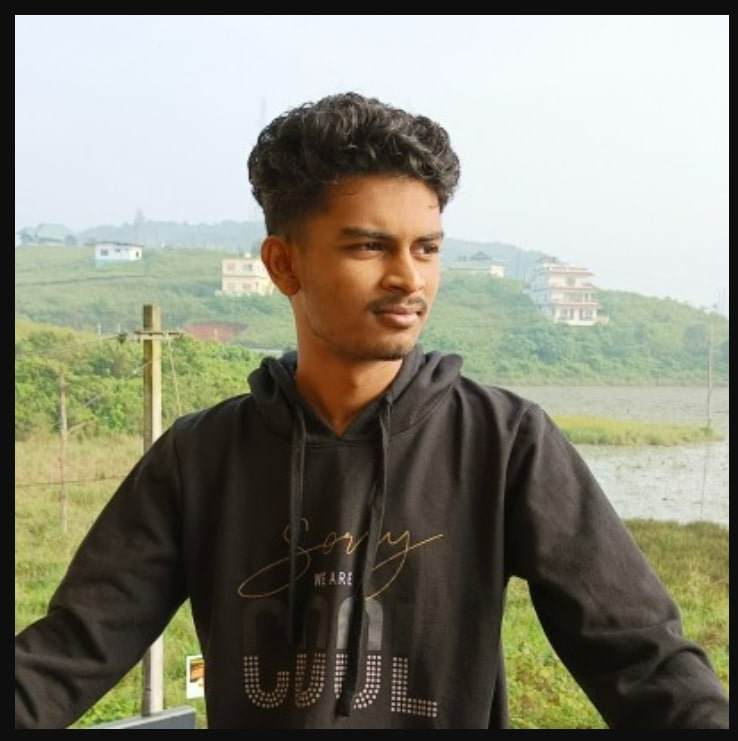
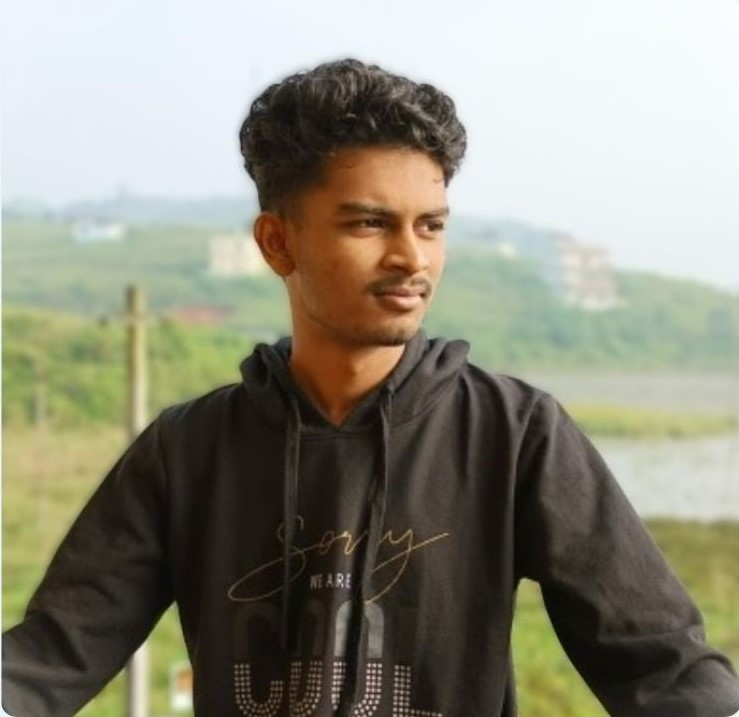
resume and project section added

diff --git a/index.html b/index.html
@@ -29,10 +29,7 @@
       rel="stylesheet"
     />
     <link href="assets/vendor/aos/aos.css" rel="stylesheet" />
-    <link
-      href="assets/vendor/glightbox/css/glightbox.min.css"
-      rel="stylesheet"
-    />
+
     <link href="assets/vendor/swiper/swiper-bundle.min.css" rel="stylesheet" />
 
     <!-- Main CSS File -->
@@ -54,6 +51,7 @@
               <a href="#hero" class="active">Home<br /></a>
             </li>
             <li><a href="#about">About</a></li>
+            <li><a href="#resume">Resume</a></li>
             <li><a href="#services">Projects</a></li>
             <li><a href="#contact">Contact</a></li>
           </ul>
@@ -93,6 +91,7 @@
                   <img
                     src="assets/img/profile-img.jpg"
                     class="img-fluid"
+                    style="background-color: #5780ae; box-shadow: #5780ae"
                     alt=""
                   />
                 </div>
@@ -201,10 +200,7 @@
         <!-- Section Title -->
         <div class="container section-title" data-aos="fade-up">
           <h2>Resume</h2>
-          <p>
-            Necessitatibus eius consequatur ex aliquid fuga eum quidem sint
-            consectetur velit
-          </p>
+          <p>Java Developer and Freelancer</p>
         </div>
         <!-- End Section Title -->
 
@@ -214,106 +210,94 @@
               <h3 class="resume-title">Sumary</h3>
 
               <div class="resume-item pb-0">
-                <h4>Brandon Johnson</h4>
+                <h4>Hariharan R</h4>
                 <p>
-                  <em
-                    >Innovative and deadline-driven Graphic Designer with 3+
-                    years of experience designing and developing user-centered
-                    digital/print marketing material from initial concept to
-                    final, polished deliverable.</em
-                  >
+                  <em>
+                    A final-year Computer Science and Engineering student with a
+                    strong foundation in Java development, Data Structures, and
+                    Algorithms, seeking a challenging role to enhance
+                    problem-solving skills and contribute to impactful software
+                    engineering projects.
+                  </em>
                 </p>
                 <ul>
-                  <li>Portland par 127,Orlando, FL</li>
-                  <li>(123) 456-7891</li>
-                  <li>alice.barkley@example.com</li>
+                  <li>+91 9342510436</li>
+                  <li>hariramesh1893@gmail.com</li>
+                  <li>Karaikal, Puducherry.</li>
                 </ul>
               </div>
               <!-- Edn Resume Item -->
 
               <h3 class="resume-title">Education</h3>
               <div class="resume-item">
-                <h4>Master of Fine Arts &amp; Graphic Design</h4>
-                <h5>2015 - 2016</h5>
-                <p><em>Rochester Institute of Technology, Rochester, NY</em></p>
-                <p>
-                  Qui deserunt veniam. Et sed aliquam labore tempore sed
-                  quisquam iusto autem sit. Ea vero voluptatum qui ut
-                  dignissimos deleniti nerada porti sand markend
-                </p>
+                <h4>Batchelor of Technology</h4>
+                <h5>Computer Science &amp; Engineering (Pursing)</h5>
+                <br />
+                <h5>2021 - 2025</h5>
+                <h5>CGPA: 8.66 (Upto 5th sem)<h5>
               </div>
               <!-- Edn Resume Item -->
 
               <div class="resume-item">
-                <h4>Bachelor of Fine Arts &amp; Graphic Design</h4>
-                <h5>2010 - 2014</h5>
-                <p><em>Rochester Institute of Technology, Rochester, NY</em></p>
-                <p>
-                  Quia nobis sequi est occaecati aut. Repudiandae et iusto quae
-                  reiciendis et quis Eius vel ratione eius unde vitae rerum
-                  voluptates asperiores voluptatem Earum molestiae consequatur
-                  neque etlon sader mart dila
-                </p>
+                <h4>Higher Secondary Certificate (HSC)</h4>
+                <h5>2021</h5>
+                <h5>85.48%</h5>
+                <br>
+                <br>
+                <h4>Secondary School Leaving Certificate (SSLC)</h4>
+                <h5>2019</h5>
+                <h5>79.9%</h5>
+                
               </div>
               <!-- Edn Resume Item -->
             </div>
 
             <div class="col-lg-6" data-aos="fade-up" data-aos-delay="200">
-              <h3 class="resume-title">Professional Experience</h3>
+              <h3 class="resume-title">Internship Experience</h3>
               <div class="resume-item">
-                <h4>Senior graphic design specialist</h4>
-                <h5>2019 - Present</h5>
-                <p><em>Experion, New York, NY </em></p>
-                <ul>
-                  <li>
-                    Lead in the design, development, and implementation of the
-                    graphic, layout, and production communication materials
-                  </li>
-                  <li>
-                    Delegate tasks to the 7 members of the design team and
-                    provide counsel on all aspects of the project.
-                  </li>
-                  <li>
-                    Supervise the assessment of all graphic materials in order
-                    to ensure quality and accuracy of the design
-                  </li>
-                  <li>
-                    Oversee the efficient use of production project budgets
-                    ranging from $2,000 - $25,000
-                  </li>
-                </ul>
+                <h4>Java Development Intern</h4>
+                <h5>Alfido Tech</h5>
+                <h5>November 2023 - December  2023</h5>
+                <p><em>Skills -  Core Java, Java Swing</em></p>
+              </div>
+              <!-- Edn Resume Item -->
+              
+              <div class="resume-item">
+                <h4>Java Development Intern</h4>
+                <h5>Info AidTech</h5>
+                <h5>October 2023 - November 2023</h5>
+                <p><em>Skills -  Core Java, Java Swing, MySql, JDBC</em></p>
               </div>
               <!-- Edn Resume Item -->
 
               <div class="resume-item">
-                <h4>Graphic design specialist</h4>
-                <h5>2017 - 2018</h5>
-                <p><em>Stepping Stone Advertising, New York, NY</em></p>
-                <ul>
-                  <li>
-                    Developed numerous marketing programs (logos,
-                    brochures,infographics, presentations, and advertisements).
-                  </li>
-                  <li>
-                    Managed up to 5 projects or tasks at a given time while
-                    under pressure
-                  </li>
-                  <li>
-                    Recommended and consulted with clients on the most
-                    appropriate graphic design
-                  </li>
-                  <li>
-                    Created 4+ design presentations and proposals a month for
-                    clients and account managers
-                  </li>
-                </ul>
+                <h4>Web Development Intern</h4>
+                <h5>Prodigy Infotech</h5>
+                <h5>September 2023 - October 2023</h5>
+                <p><em>Skills -  HTML5, CSS3, TailWindCSS, JavaScript</em></p>
               </div>
               <!-- Edn Resume Item -->
+
+              <h3 class="resume-title">Certifications</h3>
+              <div class="resume-item">
+                <h4>Java (Basic) - HackerRank</h4>
+              </div>
+              <div class="resume-item">
+                <h4>SQL (Basic) - HackerRank</h4>
+              </div>
+              <div class="resume-item">
+                <h4>Introduction to Git and GitHub - Google</h4>
+              </div>
+              <div class="resume-item">
+                <h4>Introduction to MongoDB - MongoDB Inc.</h4>
+              </div>
+              
             </div>
           </div>
         </div>
       </section>
       <!-- /Resume Section -->
+
 
       <!-- Projects Section -->
       <section id="services" class="services section">
@@ -333,7 +317,7 @@
             >
               <div class="service-item position-relative">
                 <div class="icon">
-                  <i class="bi bi-activity"></i>
+                  <i class="bi bi-file-earmark-person-fill"></i>
                 </div>
                 <a
                   href="https://github.com/Hariharan1893"
@@ -357,7 +341,7 @@
             >
               <div class="service-item position-relative">
                 <div class="icon">
-                  <i class="bi bi-broadcast"></i>
+                  <i class="bi bi-backpack-fill"></i>
                 </div>
                 <a
                   href="https://github.com/Hariharan1893"
@@ -380,7 +364,7 @@
             >
               <div class="service-item position-relative">
                 <div class="icon">
-                  <i class="bi bi-easel"></i>
+                  <i class="bi bi-activity"></i>
                 </div>
                 <a
                   href="https://github.com/Hariharan1893"
@@ -403,10 +387,10 @@
             >
               <div class="service-item position-relative">
                 <div class="icon">
-                  <i class="bi bi-bounding-box-circles"></i>
+                  <i class="bi bi-people"></i>
                 </div>
-                <a href="#" class="stretched-link">
-                  <h3>Asperiores Commodit</h3>
+                <a href="https://github.com/Hariharan1893" class="stretched-link">
+                  <h3>Employee Management System</h3>
                 </a>
                 <p>
                   Non et temporibus minus omnis sed dolor esse consequatur.
